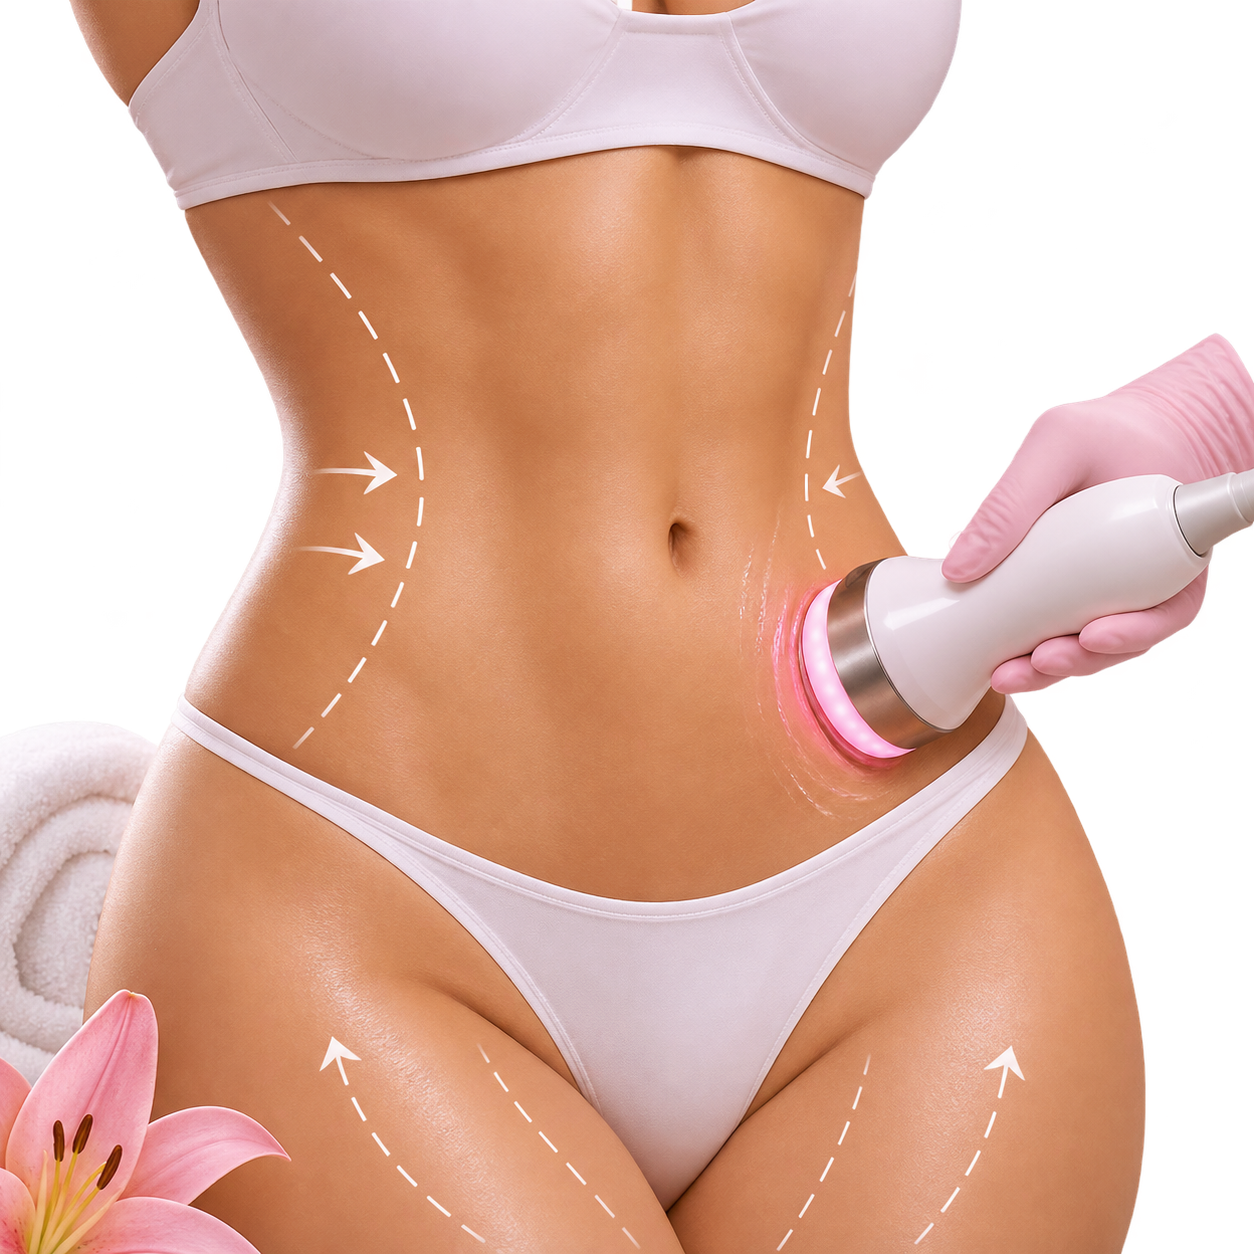
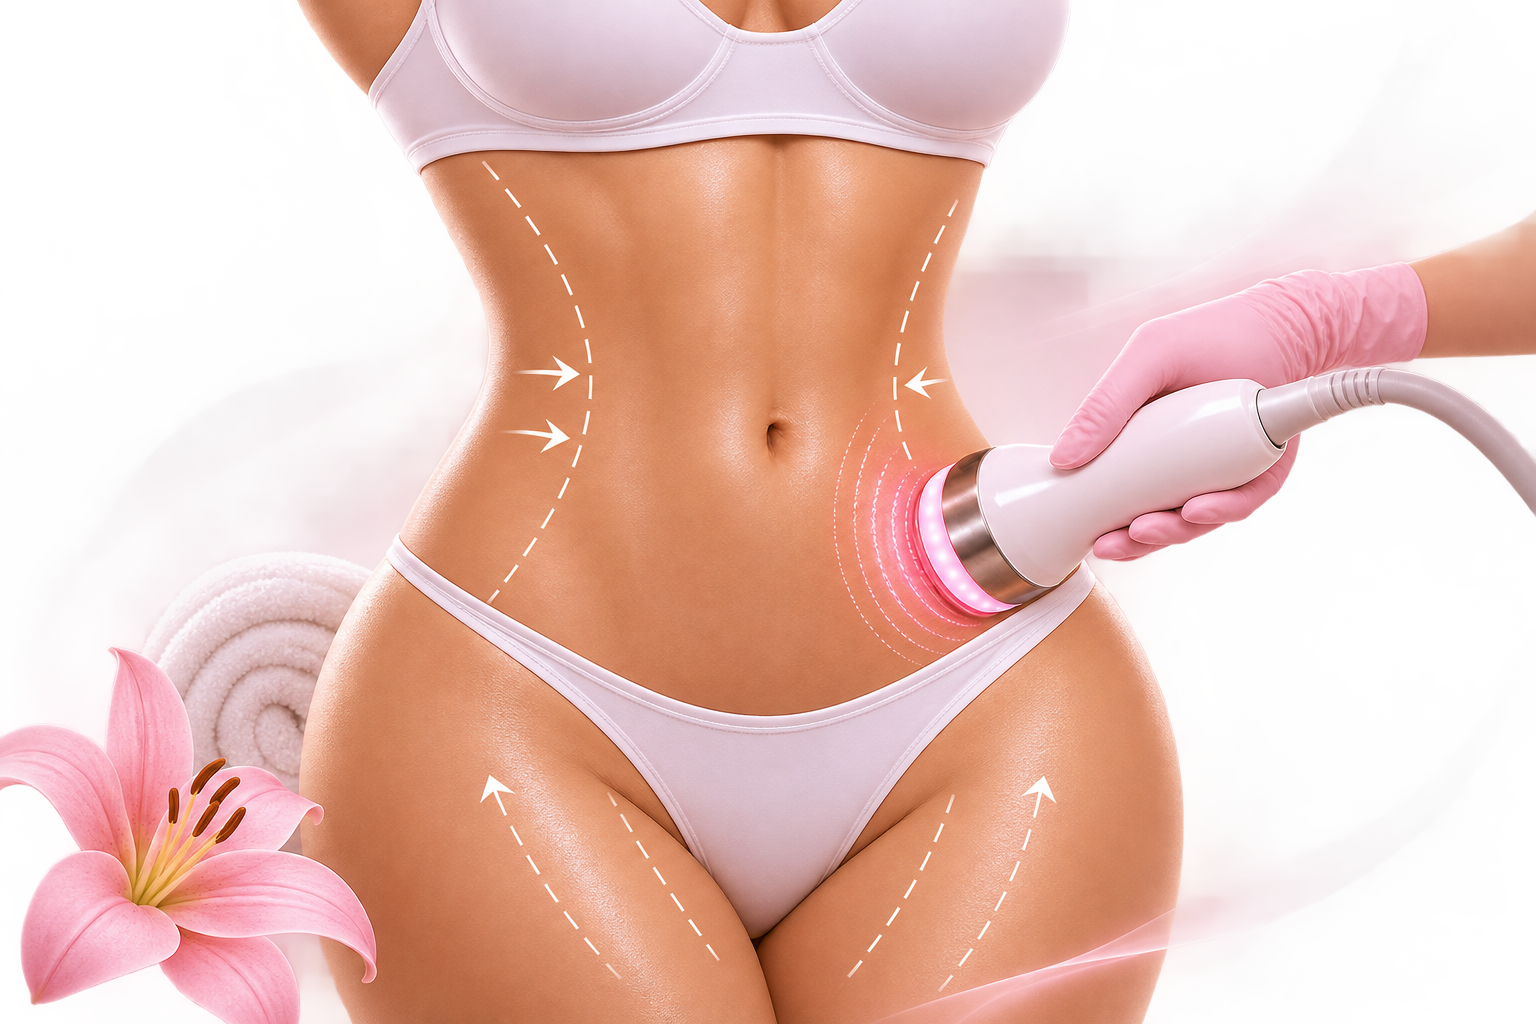
feat(web): renova capas e exibe links sociais na demonstração

diff --git a/apps/web/lib/preview-clinic.ts b/apps/web/lib/preview-clinic.ts
@@ -16,9 +16,9 @@ const demoClinic: PublicClinic = {
   foundedYear: null,
   logoUrl: null,
   whatsapp: null,
-  instagram: null,
-  facebook: null,
-  website: null,
+  instagram: 'https://www.instagram.com/',
+  facebook: 'https://www.facebook.com/',
+  website: 'https://luminix.beauty/',
   location: null,
   hours: [],
   services: [
@@ -269,6 +269,9 @@ const examples = {
 
 const demoVariants = Object.entries(examples).map(([key, entry]): PublicClinic => ({
   ...demoClinic,
+  instagram: null,
+  facebook: null,
+  website: null,
   slug: `demonstracao-${key}`,
   name: entry.name,
   subtitle: entry.subtitle,

diff --git a/apps/web/app/c/[clinica]/page.tsx b/apps/web/app/c/[clinica]/page.tsx
@@ -121,7 +121,7 @@ export default async function ClinicPage({
       {demo && (
         <div className="clinic-demo">
           Página demonstrativa · Serviços e valores ilustrativos. Nenhum agendamento é realizado
-          aqui.
+          aqui.{socials.length > 0 && ' Links sociais de exemplo.'}
         </div>
       )}
       <main>

diff --git a/assets/brand/ilustrations/heroes/README.md b/assets/brand/ilustrations/heroes/README.md
@@ -5,3 +5,5 @@ Os dez PNGs foram fornecidos para uso nas vitrines. As versões WebP ficam em
 A capa de cabeleireiro feminino continua no [inventário da Demonstração 02](../../../demonstracoes/02-cabeleireiro-feminino/README.md).
 
 Massoterapia e quiropraxia compartilham uma capa, assim como sobrancelhas e cílios. Piercing tem capa própria.
+
+Os originais substituídos de estética corporal e sobrancelhas/cílios ficam em [anteriores](anteriores).
